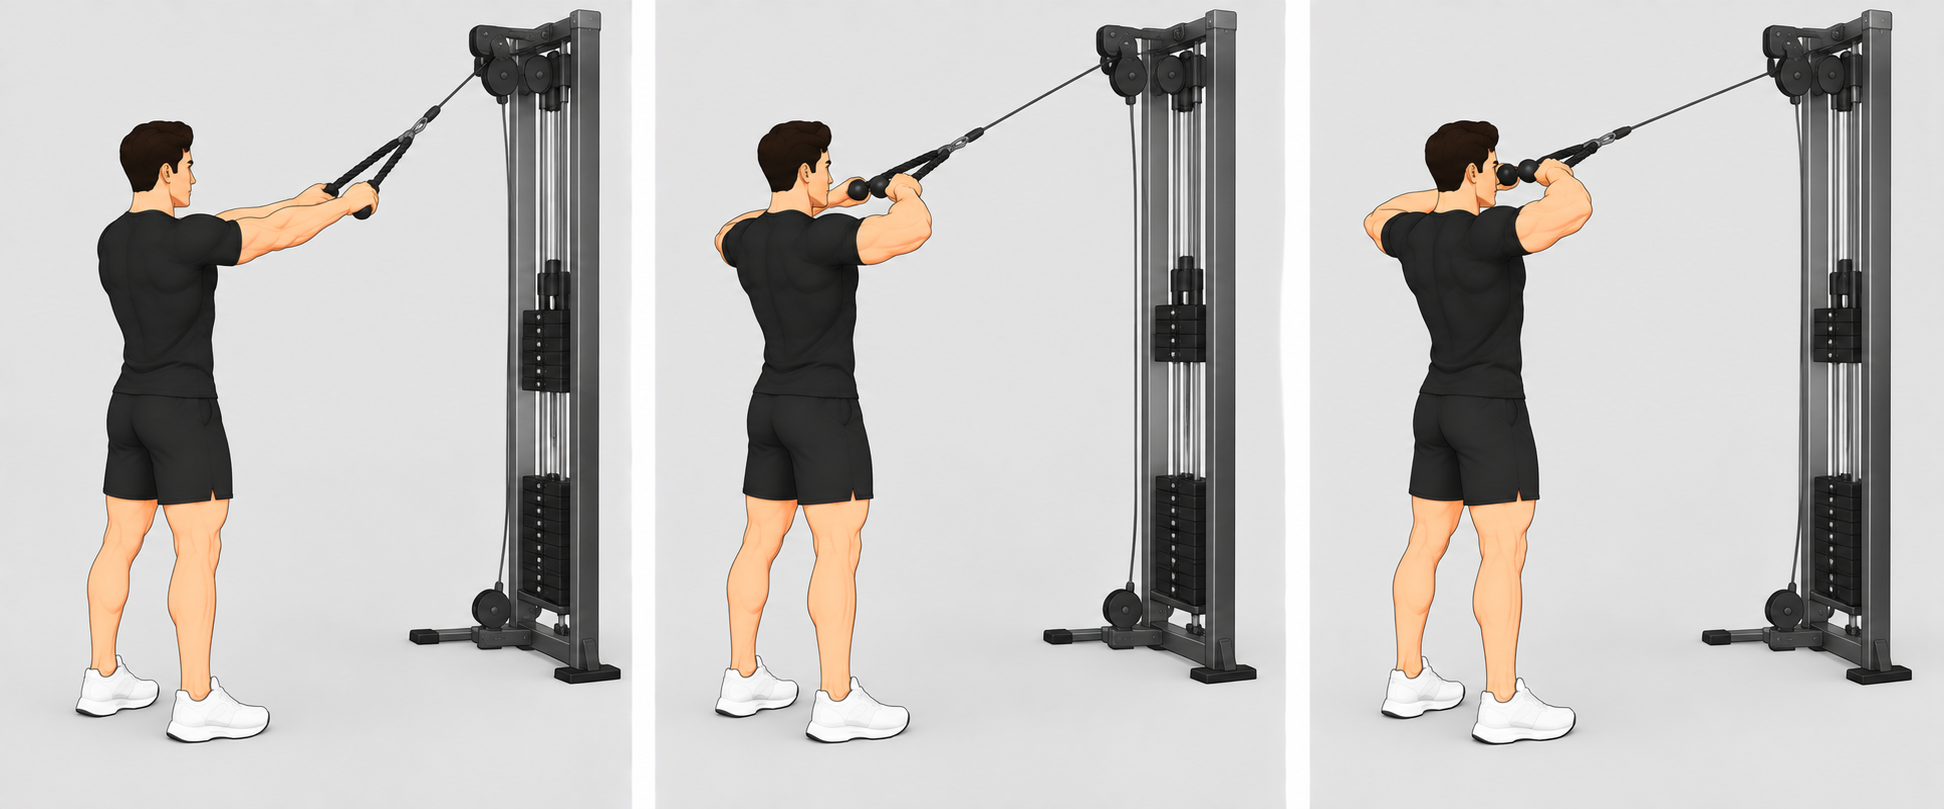
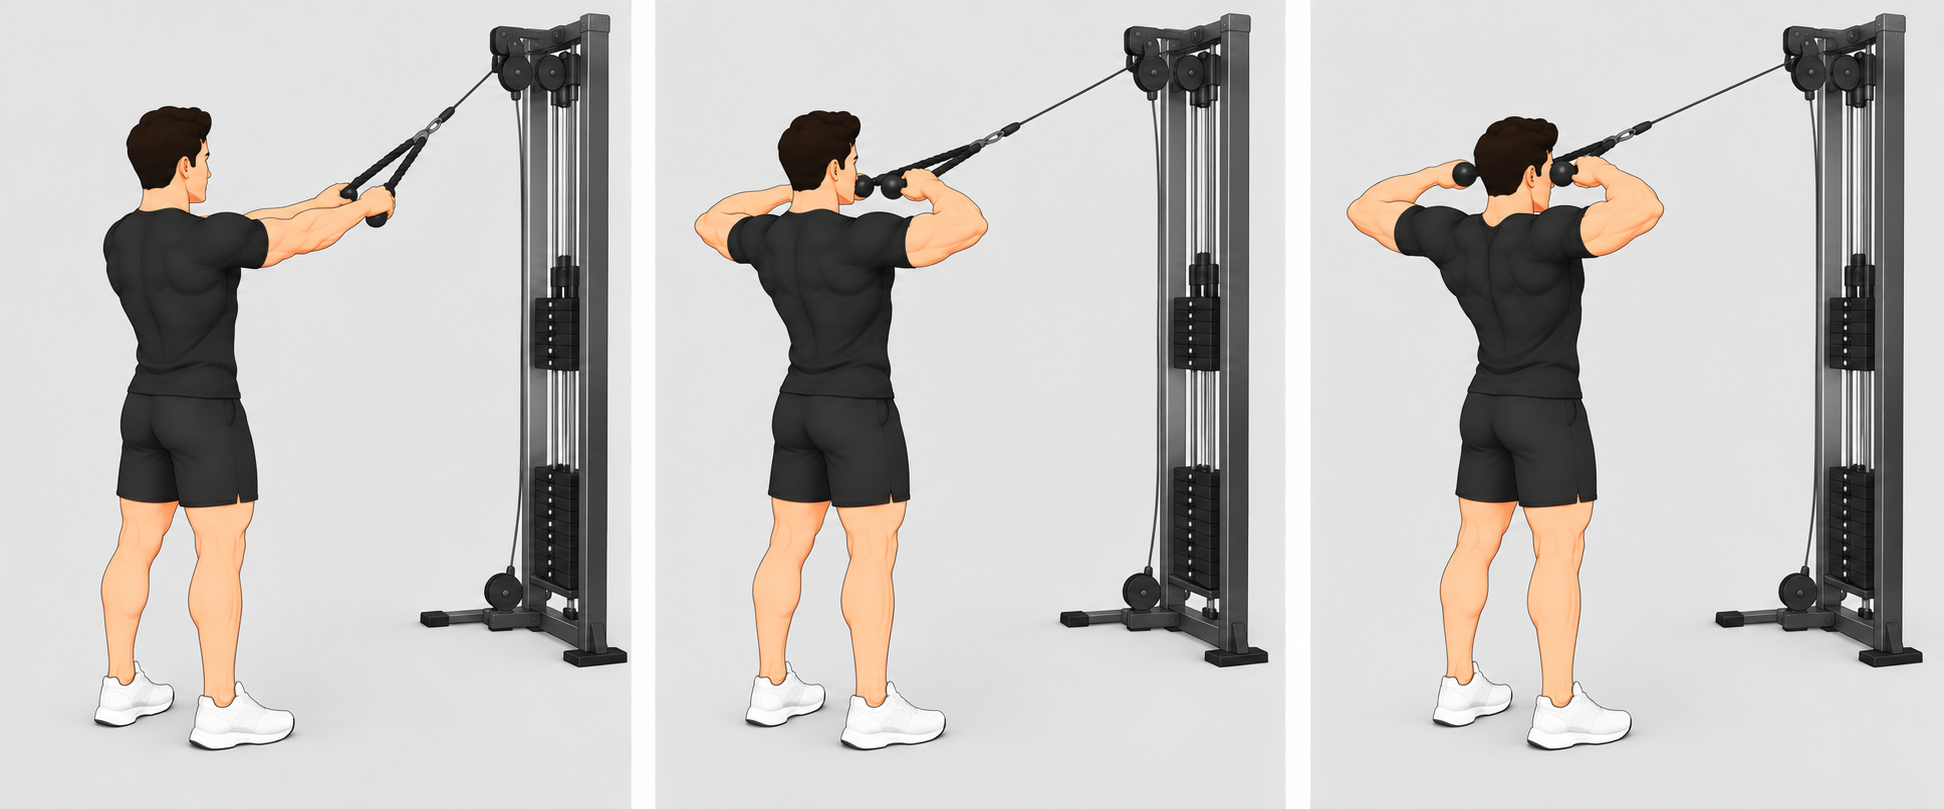
Redo the face pull poses (elbows pulled back)

diff --git a/src/features/exercises/exerciseMedia.generated.ts b/src/features/exercises/exerciseMedia.generated.ts
@@ -100,9 +100,9 @@ export const exerciseMedia = {
     thumbnail: "media/exercises/epaules/face-pull-thumb.cc343ec9.webp",
     photo: "media/exercises/epaules/face-pull.4dc6b461.webp",
     frames: [
-      "media/exercises/epaules/face-pull-frame1.a39bb1c7.webp",
-      "media/exercises/epaules/face-pull-frame2.9d36e984.webp",
-      "media/exercises/epaules/face-pull-frame3.7c734ec1.webp",
+      "media/exercises/epaules/face-pull-frame1.5198ad8c.webp",
+      "media/exercises/epaules/face-pull-frame2.db089d4b.webp",
+      "media/exercises/epaules/face-pull-frame3.20abfb66.webp",
     ],
   },
   "hip-thrust": {
